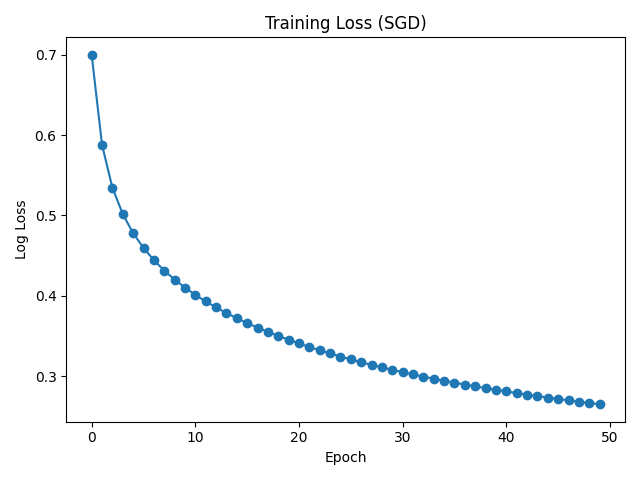
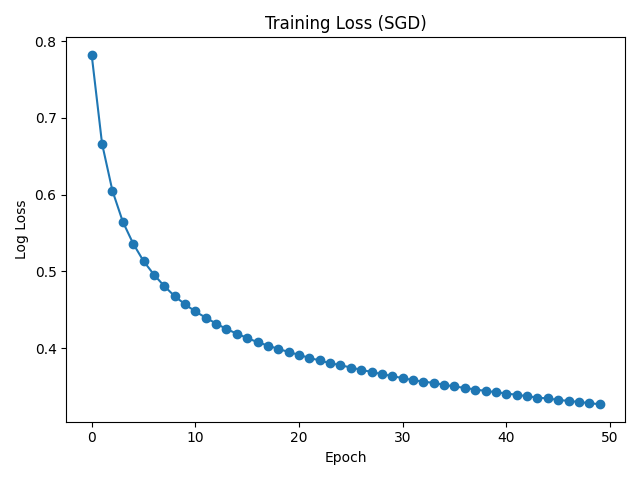
upgrade

diff --git a/app/train.py b/app/train.py
@@ -2,31 +2,39 @@ import numpy as np
 from sklearn.pipeline import Pipeline
 from sklearn.preprocessing import StandardScaler
 from sklearn.metrics import log_loss
-from model import build_model
+from model import build_model   
 
-def train_model(X_train, y_train, epochs=50, shuffle=True):
-    pipeline = Pipeline([
+def train_model(X, y, epochs=50, shuffle=True):
+    model = Pipeline([
         ("scaler", StandardScaler()),
-        ("model", build_model())
+        ("clf", build_model())
     ])
 
+    classes = np.unique(y)
     losses = []
 
     for epoch in range(epochs):
+
         if shuffle:
-            idx = np.random.permutation(len(X_train))
-            X_epoch = X_train[idx]
-            y_epoch = y_train[idx]
+            idx = np.random.permutation(len(X))
+            X_epoch = X[idx]
+            y_epoch = y[idx]
         else:
-            X_epoch = X_train
-            y_epoch = y_train
+            X_epoch = X
+            y_epoch = y
 
-        pipeline.fit(X_epoch, y_epoch)
+        # SGD update
+        model.named_steps["clf"].partial_fit(
+            model.named_steps["scaler"].fit_transform(X_epoch),
+            y_epoch,
+            classes=classes
+        )
 
-        probs = pipeline.predict_proba(X_epoch)
-        loss = log_loss(y_epoch, probs)
+        #LOSS thật (cross-entropy)
+        probs = model.predict_proba(X)
+        loss = log_loss(y, probs)
         losses.append(loss)
 
-        print(f"Epoch {epoch+1}/{epochs} - loss: {loss:.4f}")
+        print(f"Epoch {epoch+1}/{epochs} - loss={loss:.4f}")
 
-    return pipeline, losses
+    return model, losses

diff --git a/app/app.py b/app/app.py
@@ -240,7 +240,7 @@ def predict_csv():
 
     return f"""
     <h2>📊 Analysis Result</h2>
-    {df.head(10).to_html(index=False)}
+    {df.head(150).to_html(index=False)}
 
     <h3>Training Loss</h3>
     <img src="/static/loss_curve.png">
